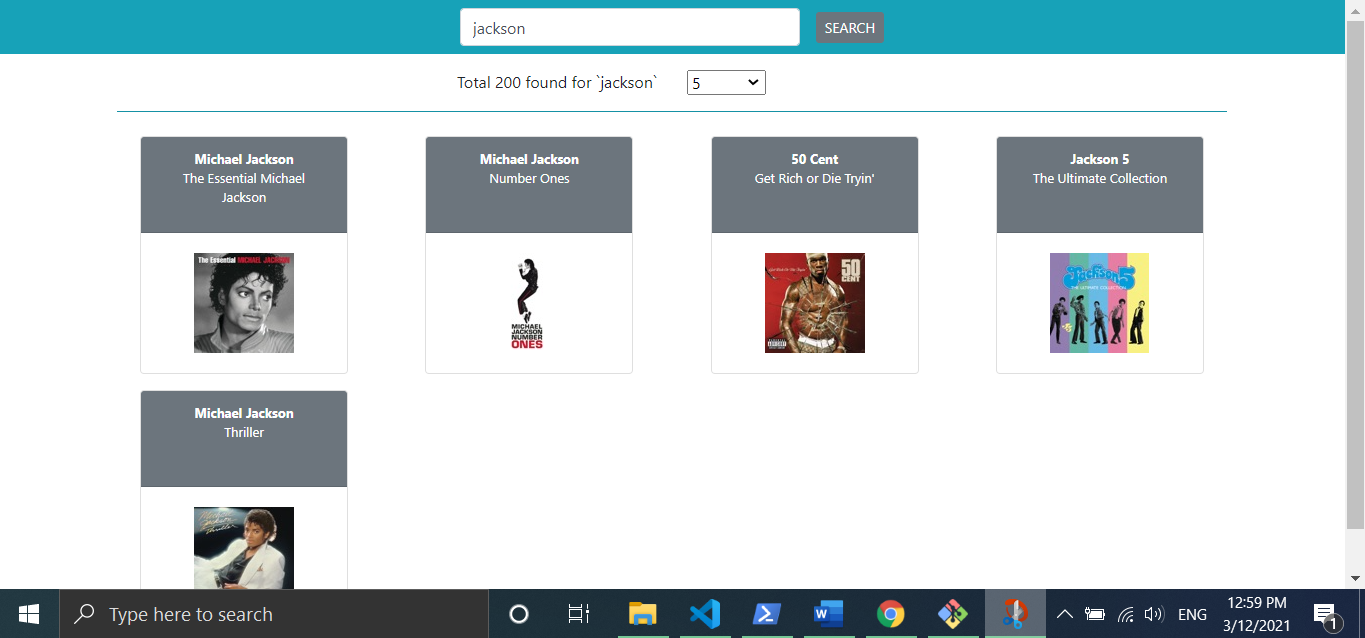
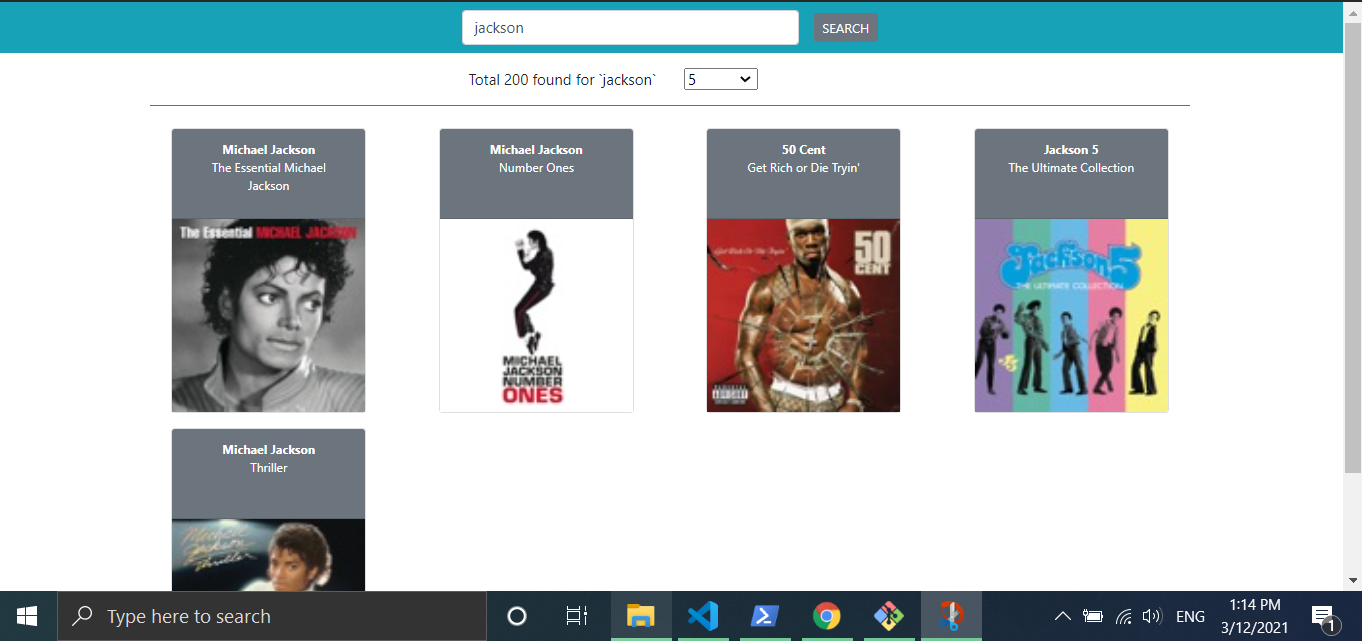
Exam 2 retain searching result after page refresh

diff --git a/Exam2/src/app/components/cards/cards.component.html b/Exam2/src/app/components/cards/cards.component.html
@@ -1,11 +1,11 @@
 <div class="container d-flex flex-wrap justify-content-between">
-    <div *ngFor="let ab of filteredAlbums" class="card m-2" style="width: 13rem;">
+    <div *ngFor="let ab of filteredAlbums" class="card m-2" style="width: 13rem; height: 19rem;">
         <div class="card-header bg-secondary text-white" style="height: 6rem; font-size: small;">
             <div class="text-center font-weight-bold">{{ab.artistName}}</div>
             <div class="text-center">{{ab.collectionName}}</div>
         </div>
-        <div class="card-body d-flex justify-content-center">
-            <img [src]="ab.artworkUrl100" class="img-fluid">
+        <div class="card-body d-flex justify-content-center p-0">
+            <img [src]="ab.artworkUrl100" class="img-fluid" style="height: 100%; width: 100%;">
         </div>
     </div>
 </div>
